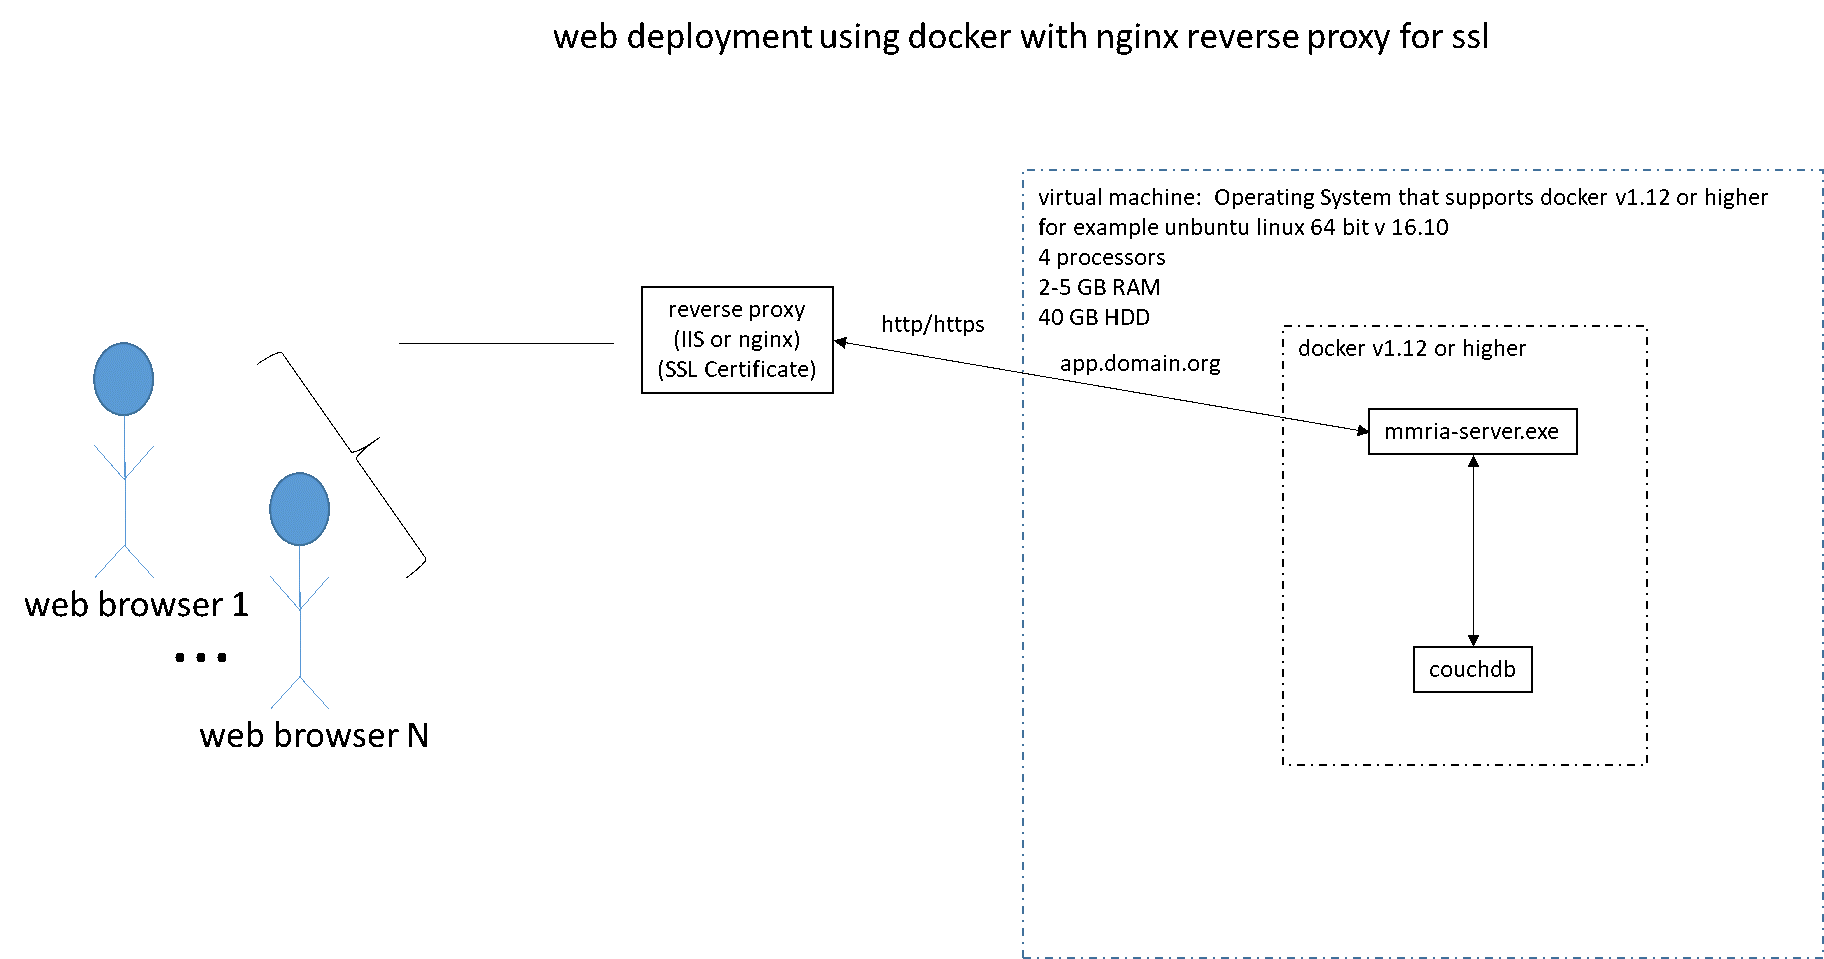
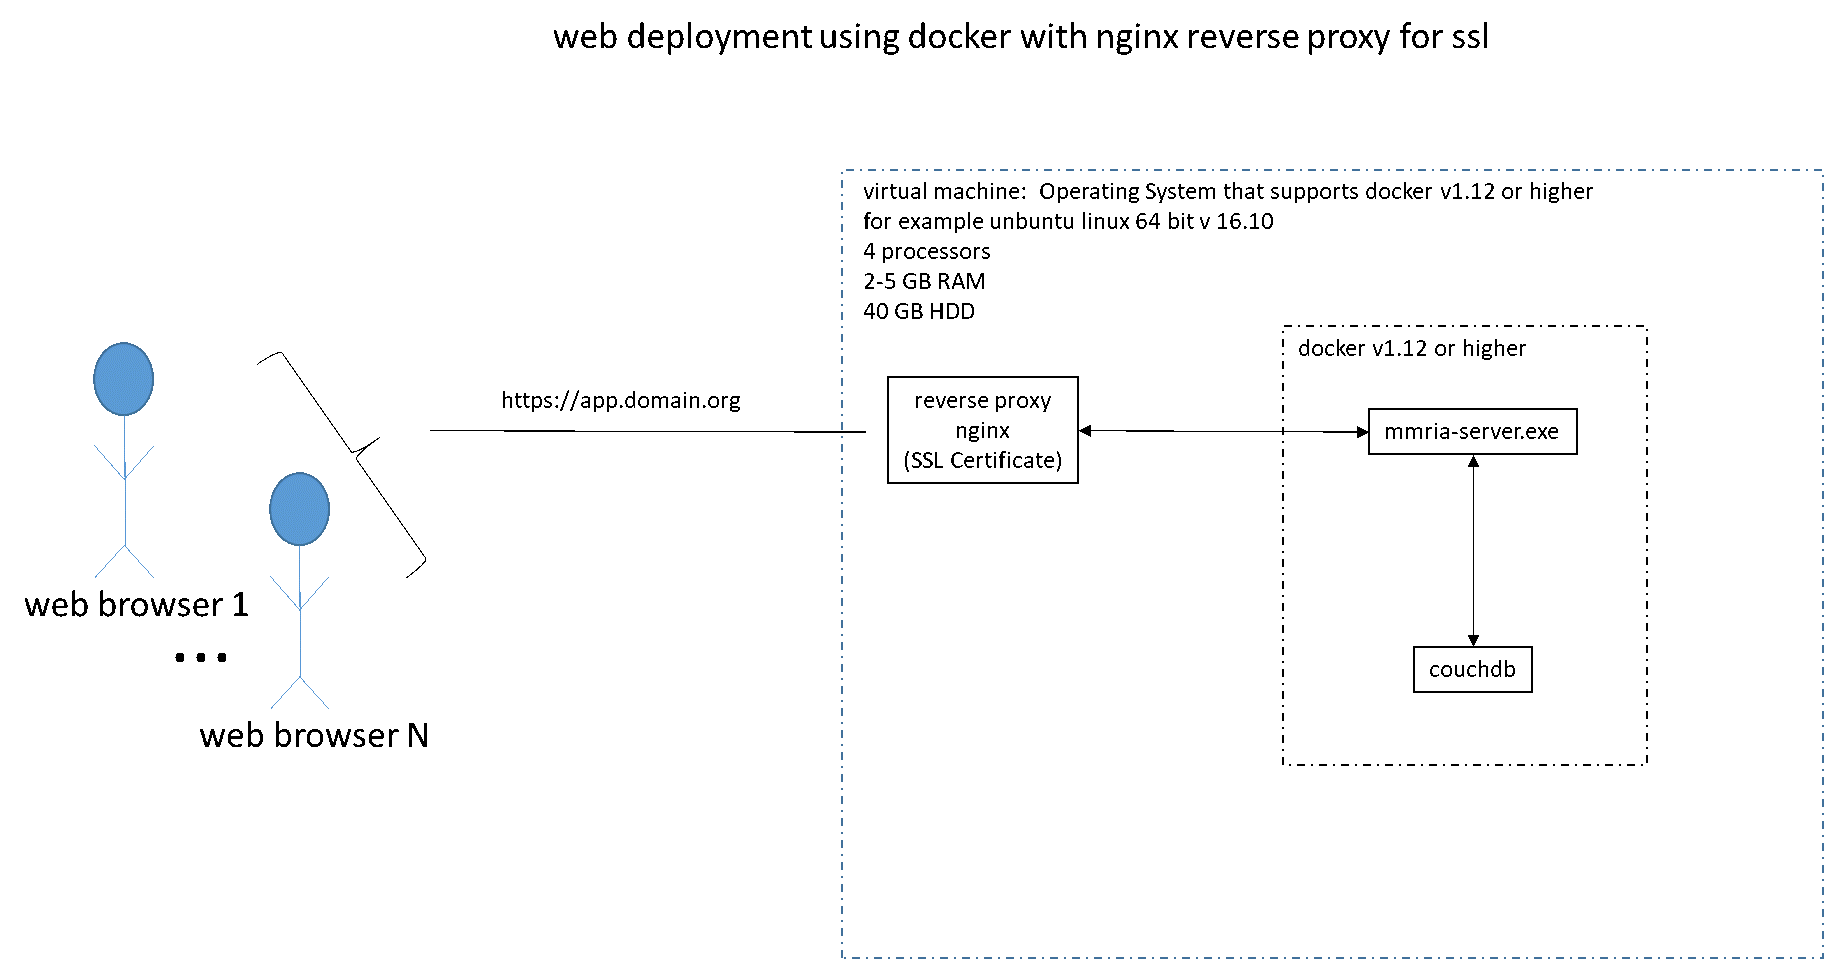
MMRDS-739 Improved Deployment diagrams.

diff --git a/source-code/scratch/owin/mmria.org/download.html b/source-code/scratch/owin/mmria.org/download.html
@@ -59,8 +59,10 @@
 
 <p><strong>The recommended installation of MMRIA is on a Docker platform</strong>, which will make maintenance and upgrades easier.  Updates are expected to occur on a monthly to bi-monthly basis. The diagram below shows MMRIA installation with Docker.</p>
 <img src="recommended-deployment.png"/>
+<hr/><br/>
+<img src="windows-recommended-deployment.png"/>
 
-
+<br/>
 <p>Three key pieces of information need to be determined to complete this process:</p>
 <ul>
 <li>What database url will be used?</li>
